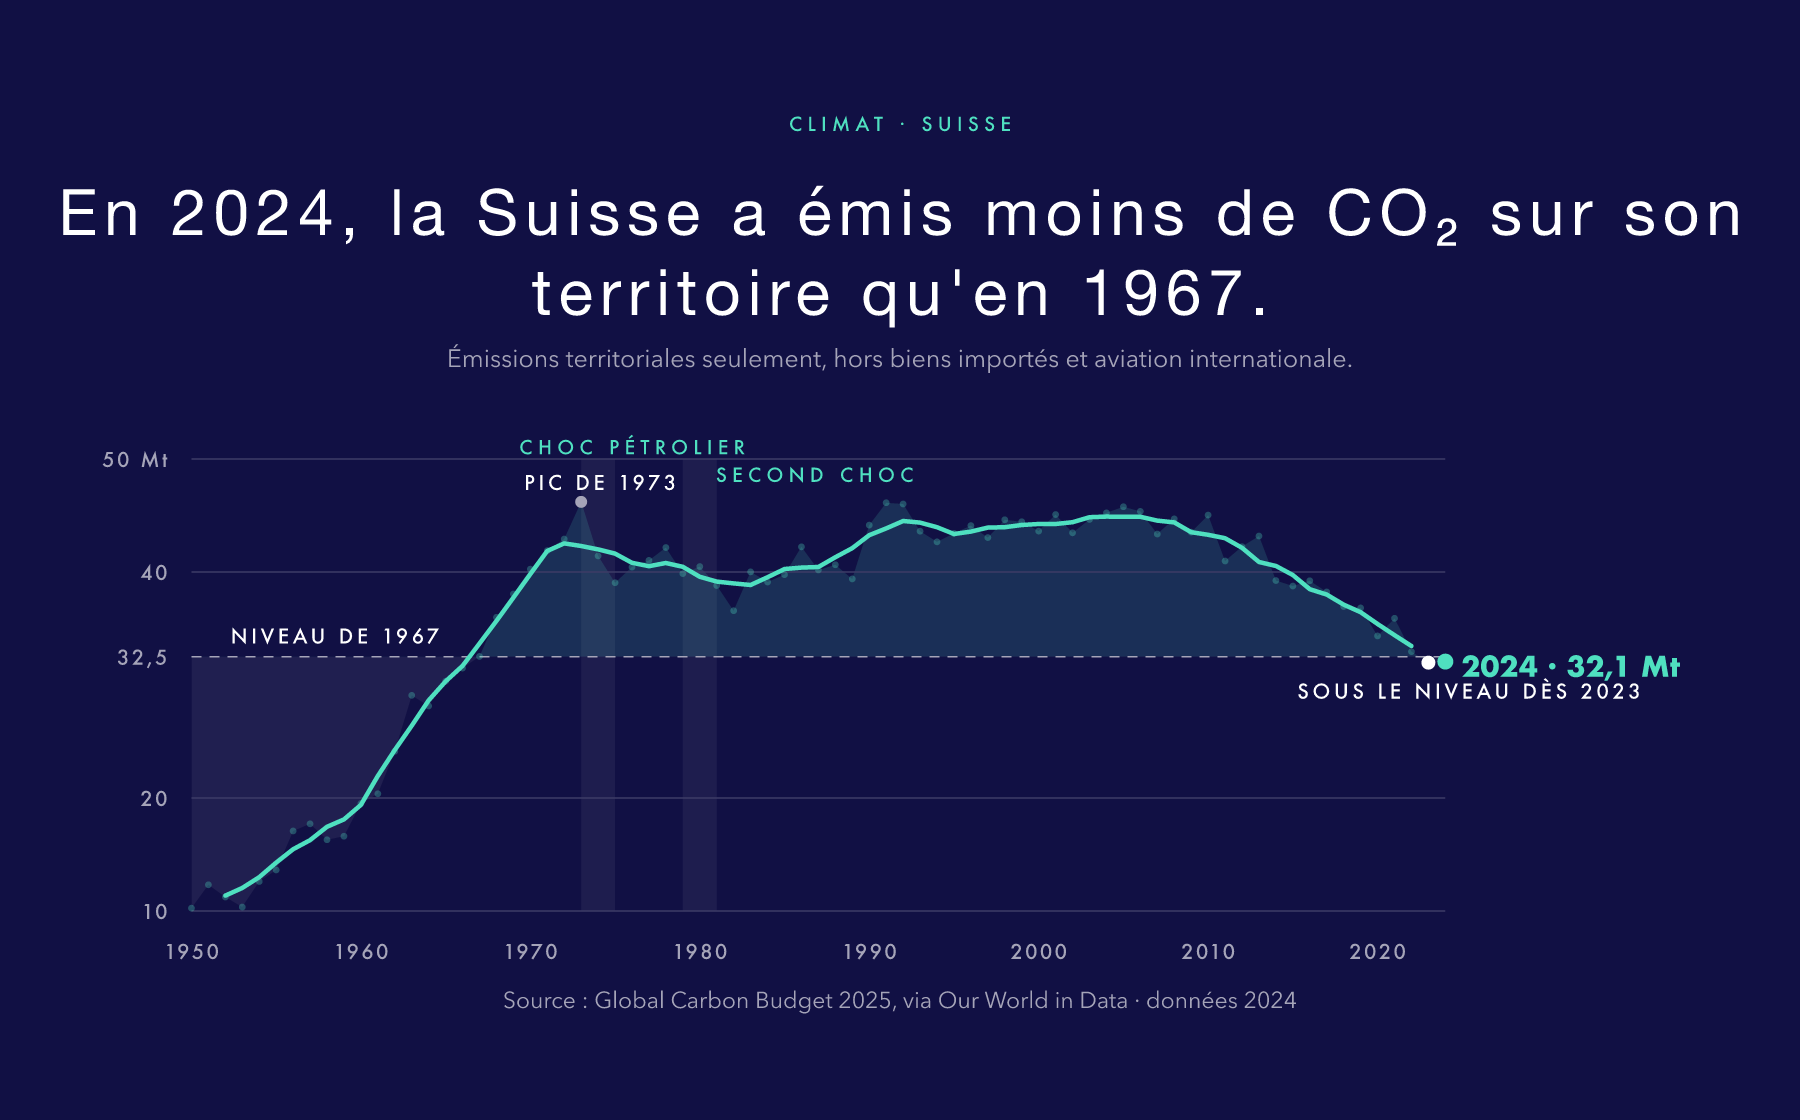
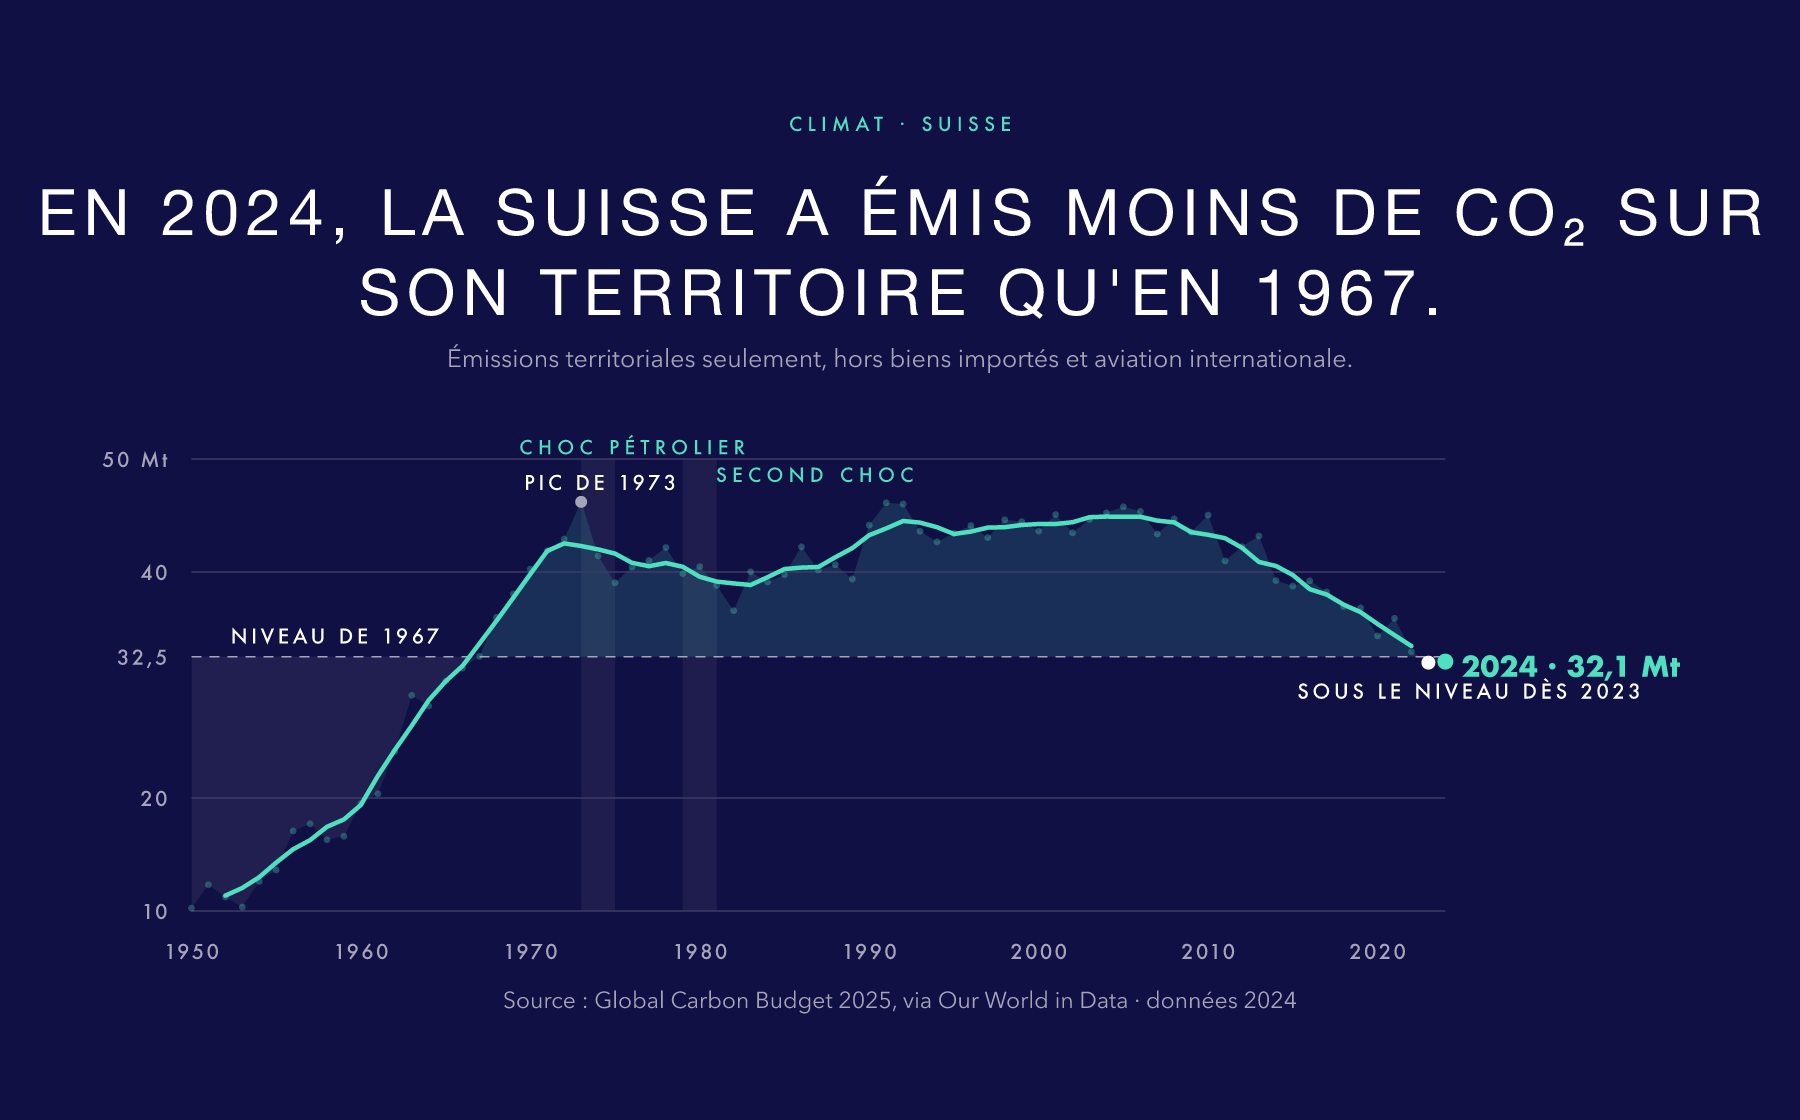
feat(design-base): a composer that proposes and never picks, and the axis that vanished between record and picture

Changed region(s): [[0.0, 0.1562, 0.9956, 0.2812]]

diff --git a/skills/splash/test/a-beat-renders-in-every-filed-direction.test.ts b/skills/splash/test/a-beat-renders-in-every-filed-direction.test.ts
@@ -69,6 +69,39 @@ describe("the line family's beat", () => {
     ).toBeGreaterThanOrEqual(2);
   });
 
+  it("should carry every axis a direction declares into the delivered file", () => {
+    // MEASURED, AND THIS IS WHY THE GUARD EXISTS. Both `creme` and `rapport` write `**yes**` for an
+    // italic register — bold, for emphasis, in a record that is prose as much as data — and a
+    // strict `/^(yes|true)$/` read both as NO. Every render made under those directions came out
+    // upright where the record said italic. Nothing anywhere went red: the axis simply vanished
+    // between the record and the picture, which is the failure this whole design base exists to
+    // make impossible.
+    const strip = (cell: string) => cell.replace(/[*_`]/g, "").trim();
+    for (const id of filed()) {
+      const record = readFileSync(join(DIRECTIONS, `${id}.md`), "utf8");
+      const svg = readFileSync(join(RENDERS, `${id}.svg`), "utf8");
+      const rows = record
+        .split(/\r?\n/)
+        .filter((l) => l.startsWith("| ") && !/^\|\s*(register|-)/.test(l))
+        .map((l) => l.split("|").slice(1, -1).map(strip));
+
+      const wantsItalic = rows.some((c) => /^(yes|true)$/i.test(c[4] ?? ""));
+      const wantsTracking = rows.some((c) => Math.abs(Number((c[5] ?? "0").replace(/−/g, "-"))) >= 0.5);
+      const wantsCase = rows.some((c) => (c[6] ?? "none") !== "none");
+
+      if (wantsItalic)
+        expect(svg, `${id} declares an italic register and draws none`).toContain('font-style="italic"');
+      if (wantsTracking)
+        expect(svg, `${id} declares tracking and draws none`).toMatch(/letter-spacing="[^0][^"]*"/);
+      if (wantsCase) {
+        const shouted = [...svg.matchAll(/>([^<]{4,})</g)].some(
+          (m) => m[1] === m[1].toUpperCase() && /[A-ZÉÈÀÇ]/.test(m[1]),
+        );
+        expect(shouted, `${id} declares a case transform and draws no transformed run`).toBe(true);
+      }
+    }
+  });
+
   it("should let no label sit on the series in any delivered render", () => {
     // THE DEFECT THIS CLOSES, measured on this beat's first render: the end value landed ON its own
     // line in all three directions. The arbiter avoided other labels and nothing had told it where
